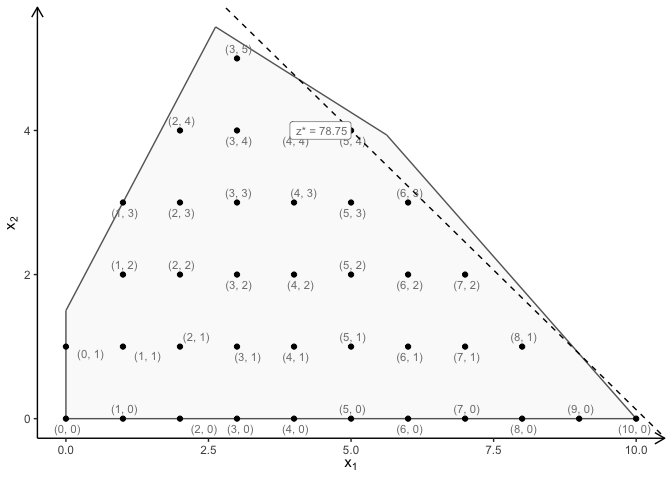
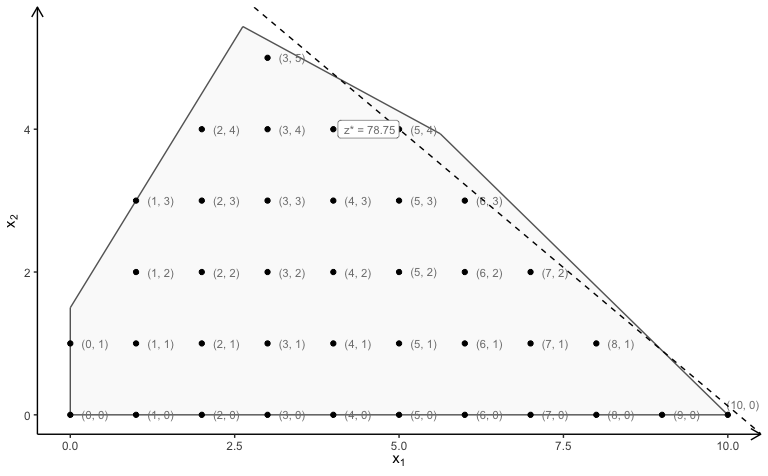
Updated Readme

diff --git a/README.md b/README.md
@@ -51,7 +51,7 @@ plotPolytope(
 )
 ```
 
-![](man/figures/README-lp-1.png)<!-- -->
+<img src="man/figures/README-lp-1.png" width="99%" style="display: block; margin: auto;" />
 
 The polytope of the ILP model with LP faces (\(x\in \mathbb{Z}_0\)):
 
@@ -70,7 +70,7 @@ plotPolytope(
 )
 ```
 
-![](man/figures/README-ilp-1.png)<!-- -->
+<img src="man/figures/README-ilp-1.png" width="99%" style="display: block; margin: auto;" />
 
 The polytope of the MILP model (first variable integer) with LP faces:
 
@@ -89,7 +89,7 @@ plotPolytope(
 )
 ```
 
-![](man/figures/README-milp-1.png)<!-- -->
+<img src="man/figures/README-milp-1.png" width="99%" style="display: block; margin: auto;" />
 
 You can do the same with three variables:
 
@@ -111,22 +111,18 @@ view <- matrix( c(-0.412063330411911, -0.228006735444069, 0.882166087627411, 0, 
                   0.231208890676498, 0, 0, 0, 0, 1), nc = 4)   
 loadView(v = view)  # set view angle
 plotPolytope(A, b, plotOptimum = TRUE, obj = coeff, labels = "n")
-rglwidget()
 ```
 
-<!--html_preserve-->
+<center>
 
-<div id="rgl12308" class="rglWebGL html-widget" style="width:672px;height:480px;">
+![](man/figures/README-3d.gif)
 
-</div>
+</center>
 
-<script type="application/json" data-for="rgl12308">{"x":{"material":{"color":"#000000","alpha":1,"lit":true,"ambient":"#000000","specular":"#FFFFFF","emission":"#000000","shininess":50,"smooth":true,"front":"filled","back":"filled","size":3,"lwd":1,"fog":true,"point_antialias":false,"line_antialias":false,"texture":null,"textype":"rgb","texmipmap":false,"texminfilter":"linear","texmagfilter":"linear","texenvmap":false,"depth_mask":true,"depth_test":"less","isTransparent":false,"polygon_offset":[0,0]},"rootSubscene":7,"objects":{"15":{"id":15,"type":"lines","material":{"lit":false},"vertices":[[1,1,1],[1,1,1],[3,3,3],[3,3,3]],"colors":[[0,0,0,1]],"centers":[[1,1,1],[3,3,3]],"ignoreExtent":false,"flags":32832},"16":{"id":16,"type":"text","material":{"lit":false},"vertices":[[2,0.66100001335144,0.66100001335144]],"colors":[[0,0,0,1]],"texts":[[""]],"cex":[[1]],"adj":[[0.5,0.5]],"centers":[[2,0.66100001335144,0.66100001335144]],"family":[["sans"]],"font":[[1]],"ignoreExtent":true,"flags":33808},"17":{"id":17,"type":"triangles","material":{"alpha":0.200000002980232,"isTransparent":true},"vertices":[[0,0,10],[11.3999996185303,0,0],[0,0,0],[5,0,8],[0,0,10],[11.3999996185303,0,0],[5,16,0],[11.3999996185303,0,0],[0,0,0],[5,16,0],[0,26,0],[0,0,0],[2.36847585645308e-15,25,1],[0,26,0],[0,0,0],[2.36847585645308e-15,25,1],[0,0,10],[0,0,0],[0,15,5],[2.36847585645308e-15,25,1],[0,0,10],[1.79999995231628,20.7999992370605,1.60000002384186],[5,0,8],[11.3999996185303,0,0],[1.79999995231628,20.7999992370605,1.60000002384186],[5,16,0],[11.3999996185303,0,0],[1.79999995231628,20.7999992370605,1.60000002384186],[0,15,5],[2.36847585645308e-15,25,1],[1.79999995231628,20.7999992370605,1.60000002384186],[5,16,0],[0,26,0],[1.79999995231628,20.7999992370605,1.60000002384186],[2.36847585645308e-15,25,1],[0,26,0],[3.75,0,8.75],[1.79999995231628,20.7999992370605,1.60000002384186],[5,0,8],[3.75,0,8.75],[1.79999995231628,20.7999992370605,1.60000002384186],[0,15,5],[3.75,0,8.75],[5,0,8],[0,0,10],[3.75,0,8.75],[0,15,5],[0,0,10]],"colors":[[1,1,1,0.200000002980232]],"centers":[[3.79999995231628,0,3.33333349227905],[5.46666669845581,0,6],[5.46666669845581,5.33333349227905,0],[1.66666674613953,14,0],[7.89491987444066e-16,17,0.333333343267441],[7.89491987444066e-16,8.33333396911621,3.66666674613953],[7.89491987444066e-16,13.3333339691162,5.33333349227905],[6.06666707992554,6.93333339691162,3.20000028610229],[6.06666707992554,12.2666664123535,0.533333361148834],[0.600000023841858,20.2666664123535,2.53333330154419],[2.26666688919067,20.9333343505859,0.533333361148834],[0.600000023841858,23.9333343505859,0.866666674613953],[3.51666688919067,6.93333339691162,6.11666679382324],[1.85000014305115,11.9333333969116,5.11666679382324],[2.91666674613953,0,8.91666698455811],[1.25,5,7.91666698455811]],"normals":[[0,1,0],[0,1,0],[0,1,0],[0,-0.999999940395355,0],[0,-0.999999940395355,0],[0,-0.999999940395355,0],[0,0,-1],[0,0,-1],[0,0,-1],[0,0,1],[0,0,1],[0,0,1],[-1,0,2.36847585645308e-15],[-1,0,2.36847585645308e-15],[-1,0,2.36847585645308e-15],[1,-9.47390403461725e-17,0],[1,-9.47390403461725e-17,0],[1,-9.47390403461725e-17,0],[-1,-1.18423792822654e-15,-3.55271410231697e-15],[-1,-1.18423792822654e-15,-3.55271410231697e-15],[-1,-1.18423792822654e-15,-3.55271410231697e-15],[0.745356023311615,0.298142403364182,0.596284747123718],[0.745356023311615,0.298142403364182,0.596284747123718],[0.745356023311615,0.298142403364182,0.596284747123718],[-0.745355904102325,-0.298142343759537,-0.596284925937653],[-0.745355904102325,-0.298142343759537,-0.596284925937653],[-0.745355904102325,-0.298142343759537,-0.596284925937653],[-0.486664354801178,-0.324442803859711,-0.811107039451599],[-0.486664354801178,-0.324442803859711,-0.811107039451599],[-0.486664354801178,-0.324442803859711,-0.811107039451599],[0.816496551036835,0.408248275518417,0.408248484134674],[0.816496551036835,0.408248275518417,0.408248484134674],[0.816496551036835,0.408248275518417,0.408248484134674],[-0.816496670246124,-0.408248245716095,-0.408248245716095],[-0.816496670246124,-0.408248245716095,-0.408248245716095],[-0.816496670246124,-0.408248245716095,-0.408248245716095],[-0.486664414405823,-0.324442833662033,-0.81110692024231],[-0.486664414405823,-0.324442833662033,-0.81110692024231],[-0.486664414405823,-0.324442833662033,-0.81110692024231],[0.4866643846035,0.324442833662033,0.811107039451599],[0.4866643846035,0.324442833662033,0.811107039451599],[0.4866643846035,0.324442833662033,0.811107039451599],[0,1,0],[0,1,0],[0,1,0],[0.301511347293854,0.301511347293854,0.904534041881561],[0.301511347293854,0.301511347293854,0.904534041881561],[0.301511347293854,0.301511347293854,0.904534041881561]],"ignoreExtent":false,"flags":32811},"18":{"id":18,"type":"lines","material":{"lit":false,"lwd":2},"vertices":[[1.79999995231628,20.7999992370605,1.60000002384186],[2.36847585645308e-15,25,1],[1.79999995231628,20.7999992370605,1.60000002384186],[5,0,8],[1.79999995231628,20.7999992370605,1.60000002384186],[5,16,0],[2.36847585645308e-15,25,1],[0,15,5],[2.36847585645308e-15,25,1],[0,26,0],[0,15,5],[3.75,0,8.75],[0,15,5],[0,0,10],[3.75,0,8.75],[5,0,8],[3.75,0,8.75],[0,0,10],[5,0,8],[11.3999996185303,0,0],[0,0,10],[0,0,0],[5,16,0],[0,26,0],[5,16,0],[11.3999996185303,0,0],[0,26,0],[0,0,0],[11.3999996185303,0,0],[0,0,0]],"colors":[[0.701960802078247,0.701960802078247,0.701960802078247,1]],"centers":[[0.899999976158142,22.8999996185303,1.29999995231628],[3.40000009536743,10.3999996185303,4.80000019073486],[3.40000009536743,18.3999996185303,0.800000011920929],[1.18423792822654e-15,20,3],[1.18423792822654e-15,25.5,0.5],[1.875,7.5,6.875],[0,7.5,7.5],[4.375,0,8.375],[1.875,0,9.375],[8.19999980926514,0,4],[0,0,5],[2.5,21,0],[8.19999980926514,8,0],[0,13,0],[5.69999980926514,0,0]],"ignoreExtent":false,"flags":41024},"19":{"id":19,"type":"points","material":{"lit":false,"size":14},"vertices":[[1.79999995231628,20.7999992370605,1.60000002384186]],"colors":[[1,0,0,1]],"centers":[[1.79999995231628,20.7999992370605,1.60000002384186]],"ignoreExtent":false,"flags":34816},"20":{"id":20,"type":"points","material":{"lit":false,"size":7},"vertices":[[1.79999995231628,20.7999992370605,1.60000002384186],[2.36847585645308e-15,25,1],[0,15,5],[3.75,0,8.75],[5,0,8],[0,0,10],[5,16,0],[0,26,0],[11.3999996185303,0,0],[0,0,0]],"colors":[[0.498039215803146,0.498039215803146,0.498039215803146,1]],"centers":[[1.79999995231628,20.7999992370605,1.60000002384186],[2.36847585645308e-15,25,1],[0,15,5],[3.75,0,8.75],[5,0,8],[0,0,10],[5,16,0],[0,26,0],[11.3999996185303,0,0],[0,0,0]],"ignoreExtent":false,"flags":34816},"21":{"id":21,"type":"text","material":{"lit":false},"vertices":[[1.79999995231628,20.7999992370605,1.60000002384186],[2.36847585645308e-15,25,1],[0,15,5],[3.75,0,8.75],[5,0,8],[0,0,10],[5,16,0],[0,26,0],[11.3999996185303,0,0],[0,0,0]],"colors":[[0,0,0,1]],"texts":[[""],[""],[""],[""],[""],[""],[""],[""],[""],[""]],"cex":[[1]],"adj":[[0.5,0.5]],"centers":[[1.79999995231628,20.7999992370605,1.60000002384186],[2.36847585645308e-15,25,1],[0,15,5],[3.75,0,8.75],[5,0,8],[0,0,10],[5,16,0],[0,26,0],[11.3999996185303,0,0],[0,0,0]],"family":[["sans"]],"font":[[1]],"ignoreExtent":false,"flags":33808},"22":{"id":22,"type":"lines","material":{"lit":false},"vertices":[[0,-0.389999985694885,-0.150000005960464],[10,-0.389999985694885,-0.150000005960464],[0,-0.389999985694885,-0.150000005960464],[0,-1.05949997901917,-0.407499998807907],[2,-0.389999985694885,-0.150000005960464],[2,-1.05949997901917,-0.407499998807907],[4,-0.389999985694885,-0.150000005960464],[4,-1.05949997901917,-0.407499998807907],[6,-0.389999985694885,-0.150000005960464],[6,-1.05949997901917,-0.407499998807907],[8,-0.389999985694885,-0.150000005960464],[8,-1.05949997901917,-0.407499998807907],[10,-0.389999985694885,-0.150000005960464],[10,-1.05949997901917,-0.407499998807907]],"colors":[[0,0,0,1]],"centers":[[5,-0.389999985694885,-0.150000005960464],[0,-0.724749982357025,-0.278750002384186],[2,-0.724749982357025,-0.278750002384186],[4,-0.724749982357025,-0.278750002384186],[6,-0.724749982357025,-0.278750002384186],[8,-0.724749982357025,-0.278750002384186],[10,-0.724749982357025,-0.278750002384186]],"ignoreExtent":true,"flags":32832},"23":{"id":23,"type":"text","material":{"lit":false},"vertices":[[0,-2.39849996566772,-0.922500014305115],[2,-2.39849996566772,-0.922500014305115],[4,-2.39849996566772,-0.922500014305115],[6,-2.39849996566772,-0.922500014305115],[8,-2.39849996566772,-0.922500014305115],[10,-2.39849996566772,-0.922500014305115]],"colors":[[0,0,0,1]],"texts":[[" 0"],[" 2"],[" 4"],[" 6"],[" 8"],["10"]],"cex":[[1]],"adj":[[0.5,0.5]],"centers":[[0,-2.39849996566772,-0.922500014305115],[2,-2.39849996566772,-0.922500014305115],[4,-2.39849996566772,-0.922500014305115],[6,-2.39849996566772,-0.922500014305115],[8,-2.39849996566772,-0.922500014305115],[10,-2.39849996566772,-0.922500014305115]],"family":[["sans"]],"font":[[1]],"ignoreExtent":true,"flags":33808},"24":{"id":24,"type":"lines","material":{"lit":false},"vertices":[[-0.170999988913536,0,-0.150000005960464],[-0.170999988913536,25,-0.150000005960464],[-0.170999988913536,0,-0.150000005960464],[-0.464549988508224,0,-0.407499998807907],[-0.170999988913536,5,-0.150000005960464],[-0.464549988508224,5,-0.407499998807907],[-0.170999988913536,10,-0.150000005960464],[-0.464549988508224,10,-0.407499998807907],[-0.170999988913536,15,-0.150000005960464],[-0.464549988508224,15,-0.407499998807907],[-0.170999988913536,20,-0.150000005960464],[-0.464549988508224,20,-0.407499998807907],[-0.170999988913536,25,-0.150000005960464],[-0.464549988508224,25,-0.407499998807907]],"colors":[[0,0,0,1]],"centers":[[-0.170999988913536,12.5,-0.150000005960464],[-0.3177749812603,0,-0.278750002384186],[-0.3177749812603,5,-0.278750002384186],[-0.3177749812603,10,-0.278750002384186],[-0.3177749812603,15,-0.278750002384186],[-0.3177749812603,20,-0.278750002384186],[-0.3177749812603,25,-0.278750002384186]],"ignoreExtent":true,"flags":32832},"25":{"id":25,"type":"text","material":{"lit":false},"vertices":[[-1.05164992809296,0,-0.922500014305115],[-1.05164992809296,5,-0.922500014305115],[-1.05164992809296,10,-0.922500014305115],[-1.05164992809296,15,-0.922500014305115],[-1.05164992809296,20,-0.922500014305115],[-1.05164992809296,25,-0.922500014305115]],"colors":[[0,0,0,1]],"texts":[[" 0"],[" 5"],["10"],["15"],["20"],["25"]],"cex":[[1]],"adj":[[0.5,0.5]],"centers":[[-1.05164992809296,0,-0.922500014305115],[-1.05164992809296,5,-0.922500014305115],[-1.05164992809296,10,-0.922500014305115],[-1.05164992809296,15,-0.922500014305115],[-1.05164992809296,20,-0.922500014305115],[-1.05164992809296,25,-0.922500014305115]],"family":[["sans"]],"font":[[1]],"ignoreExtent":true,"flags":33808},"26":{"id":26,"type":"lines","material":{"lit":false},"vertices":[[-0.170999988913536,-0.389999985694885,0],[-0.170999988913536,-0.389999985694885,10],[-0.170999988913536,-0.389999985694885,0],[-0.464549988508224,-1.05949997901917,0],[-0.170999988913536,-0.389999985694885,2],[-0.464549988508224,-1.05949997901917,2],[-0.170999988913536,-0.389999985694885,4],[-0.464549988508224,-1.05949997901917,4],[-0.170999988913536,-0.389999985694885,6],[-0.464549988508224,-1.05949997901917,6],[-0.170999988913536,-0.389999985694885,8],[-0.464549988508224,-1.05949997901917,8],[-0.170999988913536,-0.389999985694885,10],[-0.464549988508224,-1.05949997901917,10]],"colors":[[0,0,0,1]],"centers":[[-0.170999988913536,-0.389999985694885,5],[-0.3177749812603,-0.724749982357025,0],[-0.3177749812603,-0.724749982357025,2],[-0.3177749812603,-0.724749982357025,4],[-0.3177749812603,-0.724749982357025,6],[-0.3177749812603,-0.724749982357025,8],[-0.3177749812603,-0.724749982357025,10]],"ignoreExtent":true,"flags":32832},"27":{"id":27,"type":"text","material":{"lit":false},"vertices":[[-1.05164992809296,-2.39849996566772,0],[-1.05164992809296,-2.39849996566772,2],[-1.05164992809296,-2.39849996566772,4],[-1.05164992809296,-2.39849996566772,6],[-1.05164992809296,-2.39849996566772,8],[-1.05164992809296,-2.39849996566772,10]],"colors":[[0,0,0,1]],"texts":[[" 0"],[" 2"],[" 4"],[" 6"],[" 8"],["10"]],"cex":[[1]],"adj":[[0.5,0.5]],"centers":[[-1.05164992809296,-2.39849996566772,0],[-1.05164992809296,-2.39849996566772,2],[-1.05164992809296,-2.39849996566772,4],[-1.05164992809296,-2.39849996566772,6],[-1.05164992809296,-2.39849996566772,8],[-1.05164992809296,-2.39849996566772,10]],"family":[["sans"]],"font":[[1]],"ignoreExtent":true,"flags":33808},"28":{"id":28,"type":"text","material":{"lit":false},"vertices":[[5.69999980926514,-4.40700006484985,-1.69500005245209]],"colors":[[0,0,0,1]],"texts":[["x1"]],"cex":[[1]],"adj":[[0.5,0.5]],"centers":[[5.69999980926514,-4.40700006484985,-1.69500005245209]],"family":[["sans"]],"font":[[1]],"ignoreExtent":true,"flags":33808},"29":{"id":29,"type":"text","material":{"lit":false},"vertices":[[-1.93229997158051,13,-1.69500005245209]],"colors":[[0,0,0,1]],"texts":[["x2"]],"cex":[[1]],"adj":[[0.5,0.5]],"centers":[[-1.93229997158051,13,-1.69500005245209]],"family":[["sans"]],"font":[[1]],"ignoreExtent":true,"flags":33808},"30":{"id":30,"type":"text","material":{"lit":false},"vertices":[[-1.93229997158051,-4.40700006484985,5]],"colors":[[0,0,0,1]],"texts":[["x3"]],"cex":[[1]],"adj":[[0.5,0.5]],"centers":[[-1.93229997158051,-4.40700006484985,5]],"family":[["sans"]],"font":[[1]],"ignoreExtent":true,"flags":33808},"11":{"id":11,"type":"light","vertices":[[0,0,1]],"colors":[[1,1,1,1],[1,1,1,1],[1,1,1,1]],"viewpoint":true,"finite":false},"10":{"id":10,"type":"background","material":{},"colors":[[0.298039227724075,0.298039227724075,0.298039227724075,1]],"centers":[[0,0,0]],"sphere":false,"fogtype":"none","fogscale":[[1]],"flags":32768},"12":{"id":12,"type":"background","material":{"lit":false,"back":"lines"},"colors":[[1,1,1,1]],"centers":[[0,0,0]],"sphere":false,"fogtype":"none","fogscale":[[1]],"flags":32768},"7":{"id":7,"type":"subscene","par3d":{"antialias":8,"FOV":60,"ignoreExtent":false,"listeners":7,"mouseMode":{"left":"trackball","right":"zoom","middle":"fov","wheel":"pull"},"observer":[0,0,30.0991687774658],"modelMatrix":[[-0.412063330411911,0.910147845745087,-0.042830865830183,-9.26900672912598],[-0.228006735444069,-0.0574885793030262,0.97196090221405,-2.81281471252441],[0.882166087627411,0.410274744033813,0.231208890676498,-41.617130279541],[0,0,0,1]],"projMatrix":[[1.73205077648163,0,0,0],[0,1.73205077648163,0,0],[0,0,-1.99999988079071,-45.1487503051758],[0,0,-1,0]],"skipRedraw":false,"userMatrix":[[-0.412063330411911,0.910147845745087,-0.042830865830183,0],[-0.228006735444069,-0.0574885793030262,0.97196090221405,0],[0.882166087627411,0.410274744033813,0.231208890676498,0],[0,0,0,1]],"userProjection":[[1,0,0,0],[0,1,0,0],[0,0,1,0],[0,0,0,1]],"scale":[1,1,1],"viewport":{"x":0,"y":0,"width":1,"height":1},"zoom":1,"bbox":[0,11.3999996185303,0,26,0,10],"windowRect":[0,0,256,256],"family":"sans","font":1,"cex":1,"useFreeType":false,"fontname":"NULL","maxClipPlanes":2147483647,"glVersion":2.1,"activeSubscene":0},"embeddings":{"viewport":"replace","projection":"replace","model":"replace","mouse":"replace"},"objects":[12,15,16,17,18,19,20,21,22,23,24,25,26,27,28,29,30,11],"subscenes":[],"flags":44411},"37":{"id":37,"type":"linestrip","material":{"alpha":0.498039215803146,"lit":false,"depth_test":"always","isTransparent":true},"vertices":[[0,0,-0.999000012874603],[1,0,-0.999000012874603],[1,1,-0.999000012874603],[0,1,-0.999000012874603],[0,0,-0.999000012874603]],"colors":[[0,0,0,0.498039215803146]],"centers":[[0,0,-0.999000012874603],[1,0,-0.999000012874603],[1,1,-0.999000012874603],[0,1,-0.999000012874603],[0,0,-0.999000012874603]],"ignoreExtent":false,"flags":49248}},"crosstalk":{"key":[null],"group":"","id":0,"options":[null]},"width":672,"height":480,"brushId":37,"sphereVerts":{"vb":[[0,0,0,0,0,0,0,0,0,0,0,0,0,0,0,0.0746578340503426,0.146446609406726,0.212607523691814,0.270598050073098,0.318189645143208,0.353553390593274,0.375330277517865,0.38268343236509,0.375330277517865,0.353553390593274,0.318189645143208,0.270598050073098,0.212607523691814,0.146446609406726,0.0746578340503426,0.137949689641471,0.270598050073098,0.392847479193551,0.5,0.587937801209679,0.653281482438188,0.693519922661074,0.707106781186547,0.693519922661074,0.653281482438188,0.587937801209679,0.5,0.392847479193551,0.270598050073098,0.137949689641471,0.180239955501737,0.353553390593274,0.513279967159337,0.653281482438188,0.768177756711416,0.853553390593274,0.906127446352888,0.923879532511287,0.906127446352888,0.853553390593274,0.768177756711416,0.653281482438188,0.513279967159337,0.353553390593274,0.180239955501737,0.195090322016128,0.38268343236509,0.555570233019602,0.707106781186547,0.831469612302545,0.923879532511287,0.98078528040323,1,0.98078528040323,0.923879532511287,0.831469612302545,0.707106781186547,0.555570233019602,0.38268343236509,0.195090322016128,0.180239955501737,0.353553390593274,0.513279967159337,0.653281482438188,0.768177756711416,0.853553390593274,0.906127446352888,0.923879532511287,0.906127446352888,0.853553390593274,0.768177756711416,0.653281482438188,0.513279967159337,0.353553390593274,0.180239955501737,0.137949689641471,0.270598050073098,0.392847479193551,0.5,0.587937801209679,0.653281482438188,0.693519922661074,0.707106781186547,0.693519922661074,0.653281482438188,0.587937801209679,0.5,0.392847479193551,0.270598050073098,0.137949689641471,0.0746578340503426,0.146446609406726,0.212607523691814,0.270598050073098,0.318189645143208,0.353553390593274,0.375330277517865,0.38268343236509,0.375330277517865,0.353553390593274,0.318189645143208,0.270598050073098,0.212607523691814,0.146446609406726,0.0746578340503426,0,0,0,0,0,0,0,0,0,0,0,0,0,0,0,-0.0746578340503426,-0.146446609406726,-0.212607523691814,-0.270598050073098,-0.318189645143208,-0.353553390593274,-0.375330277517865,-0.38268343236509,-0.375330277517865,-0.353553390593274,-0.318189645143208,-0.270598050073098,-0.212607523691814,-0.146446609406726,-0.0746578340503426,-0.137949689641471,-0.270598050073098,-0.392847479193551,-0.5,-0.587937801209679,-0.653281482438188,-0.693519922661074,-0.707106781186547,-0.693519922661074,-0.653281482438188,-0.587937801209679,-0.5,-0.392847479193551,-0.270598050073098,-0.137949689641471,-0.180239955501737,-0.353553390593274,-0.513279967159337,-0.653281482438188,-0.768177756711416,-0.853553390593274,-0.906127446352888,-0.923879532511287,-0.906127446352888,-0.853553390593274,-0.768177756711416,-0.653281482438188,-0.513279967159337,-0.353553390593274,-0.180239955501737,-0.195090322016128,-0.38268343236509,-0.555570233019602,-0.707106781186547,-0.831469612302545,-0.923879532511287,-0.98078528040323,-1,-0.98078528040323,-0.923879532511287,-0.831469612302545,-0.707106781186547,-0.555570233019602,-0.38268343236509,-0.195090322016128,-0.180239955501737,-0.353553390593274,-0.513279967159337,-0.653281482438188,-0.768177756711416,-0.853553390593274,-0.906127446352888,-0.923879532511287,-0.906127446352888,-0.853553390593274,-0.768177756711416,-0.653281482438188,-0.513279967159337,-0.353553390593274,-0.180239955501737,-0.137949689641471,-0.270598050073098,-0.392847479193551,-0.5,-0.587937801209679,-0.653281482438188,-0.693519922661074,-0.707106781186547,-0.693519922661074,-0.653281482438188,-0.587937801209679,-0.5,-0.392847479193551,-0.270598050073098,-0.137949689641471,-0.0746578340503426,-0.146446609406726,-0.212607523691814,-0.270598050073098,-0.318189645143208,-0.353553390593274,-0.375330277517865,-0.38268343236509,-0.375330277517865,-0.353553390593274,-0.318189645143208,-0.270598050073098,-0.212607523691814,-0.146446609406726,-0.0746578340503426,0,0],[-0.98078528040323,-0.923879532511287,-0.831469612302545,-0.707106781186547,-0.555570233019602,-0.38268343236509,-0.195090322016128,0,0.195090322016128,0.38268343236509,0.555570233019602,0.707106781186547,0.831469612302545,0.923879532511287,0.98078528040323,-0.98078528040323,-0.923879532511287,-0.831469612302545,-0.707106781186547,-0.555570233019602,-0.38268343236509,-0.195090322016128,0,0.195090322016128,0.38268343236509,0.555570233019602,0.707106781186547,0.831469612302545,0.923879532511287,0.98078528040323,-0.98078528040323,-0.923879532511287,-0.831469612302545,-0.707106781186547,-0.555570233019602,-0.38268343236509,-0.195090322016128,0,0.195090322016128,0.38268343236509,0.555570233019602,0.707106781186547,0.831469612302545,0.923879532511287,0.98078528040323,-0.98078528040323,-0.923879532511287,-0.831469612302545,-0.707106781186547,-0.555570233019602,-0.38268343236509,-0.195090322016128,0,0.195090322016128,0.38268343236509,0.555570233019602,0.707106781186547,0.831469612302545,0.923879532511287,0.98078528040323,-0.98078528040323,-0.923879532511287,-0.831469612302545,-0.707106781186547,-0.555570233019602,-0.38268343236509,-0.195090322016128,0,0.195090322016128,0.38268343236509,0.555570233019602,0.707106781186547,0.831469612302545,0.923879532511287,0.98078528040323,-0.98078528040323,-0.923879532511287,-0.831469612302545,-0.707106781186547,-0.555570233019602,-0.38268343236509,-0.195090322016128,0,0.195090322016128,0.38268343236509,0.555570233019602,0.707106781186547,0.831469612302545,0.923879532511287,0.98078528040323,-0.98078528040323,-0.923879532511287,-0.831469612302545,-0.707106781186547,-0.555570233019602,-0.38268343236509,-0.195090322016128,0,0.195090322016128,0.38268343236509,0.555570233019602,0.707106781186547,0.831469612302545,0.923879532511287,0.98078528040323,-0.98078528040323,-0.923879532511287,-0.831469612302545,-0.707106781186547,-0.555570233019602,-0.38268343236509,-0.195090322016128,0,0.195090322016128,0.38268343236509,0.555570233019602,0.707106781186547,0.831469612302545,0.923879532511287,0.98078528040323,-0.98078528040323,-0.923879532511287,-0.831469612302545,-0.707106781186547,-0.555570233019602,-0.38268343236509,-0.195090322016128,0,0.195090322016128,0.38268343236509,0.555570233019602,0.707106781186547,0.831469612302545,0.923879532511287,0.98078528040323,-0.98078528040323,-0.923879532511287,-0.831469612302545,-0.707106781186547,-0.555570233019602,-0.38268343236509,-0.195090322016128,0,0.195090322016128,0.38268343236509,0.555570233019602,0.707106781186547,0.831469612302545,0.923879532511287,0.98078528040323,-0.98078528040323,-0.923879532511287,-0.831469612302545,-0.707106781186547,-0.555570233019602,-0.38268343236509,-0.195090322016128,0,0.195090322016128,0.38268343236509,0.555570233019602,0.707106781186547,0.831469612302545,0.923879532511287,0.98078528040323,-0.98078528040323,-0.923879532511287,-0.831469612302545,-0.707106781186547,-0.555570233019602,-0.38268343236509,-0.195090322016128,0,0.195090322016128,0.38268343236509,0.555570233019602,0.707106781186547,0.831469612302545,0.923879532511287,0.98078528040323,-0.98078528040323,-0.923879532511287,-0.831469612302545,-0.707106781186547,-0.555570233019602,-0.38268343236509,-0.195090322016128,0,0.195090322016128,0.38268343236509,0.555570233019602,0.707106781186547,0.831469612302545,0.923879532511287,0.98078528040323,-0.98078528040323,-0.923879532511287,-0.831469612302545,-0.707106781186547,-0.555570233019602,-0.38268343236509,-0.195090322016128,0,0.195090322016128,0.38268343236509,0.555570233019602,0.707106781186547,0.831469612302545,0.923879532511287,0.98078528040323,-0.98078528040323,-0.923879532511287,-0.831469612302545,-0.707106781186547,-0.555570233019602,-0.38268343236509,-0.195090322016128,0,0.195090322016128,0.38268343236509,0.555570233019602,0.707106781186547,0.831469612302545,0.923879532511287,0.98078528040323,-0.98078528040323,-0.923879532511287,-0.831469612302545,-0.707106781186547,-0.555570233019602,-0.38268343236509,-0.195090322016128,0,0.195090322016128,0.38268343236509,0.555570233019602,0.707106781186547,0.831469612302545,0.923879532511287,0.98078528040323,-1,1],[0.195090322016128,0.38268343236509,0.555570233019602,0.707106781186547,0.831469612302545,0.923879532511287,0.98078528040323,1,0.98078528040323,0.923879532511287,0.831469612302545,0.707106781186547,0.555570233019602,0.38268343236509,0.195090322016128,0.180239955501737,0.353553390593274,0.513279967159337,0.653281482438188,0.768177756711416,0.853553390593274,0.906127446352888,0.923879532511287,0.906127446352888,0.853553390593274,0.768177756711416,0.653281482438188,0.513279967159337,0.353553390593274,0.180239955501737,0.137949689641471,0.270598050073098,0.392847479193551,0.5,0.587937801209679,0.653281482438188,0.693519922661074,0.707106781186547,0.693519922661074,0.653281482438188,0.587937801209679,0.5,0.392847479193551,0.270598050073098,0.137949689641471,0.0746578340503426,0.146446609406726,0.212607523691814,0.270598050073098,0.318189645143208,0.353553390593274,0.375330277517865,0.38268343236509,0.375330277517865,0.353553390593274,0.318189645143208,0.270598050073098,0.212607523691814,0.146446609406726,0.0746578340503426,0,0,0,0,0,0,0,0,0,0,0,0,0,0,0,-0.0746578340503426,-0.146446609406726,-0.212607523691814,-0.270598050073098,-0.318189645143208,-0.353553390593274,-0.375330277517865,-0.38268343236509,-0.375330277517865,-0.353553390593274,-0.318189645143208,-0.270598050073098,-0.212607523691814,-0.146446609406726,-0.0746578340503426,-0.137949689641471,-0.270598050073098,-0.392847479193551,-0.5,-0.587937801209679,-0.653281482438188,-0.693519922661074,-0.707106781186547,-0.693519922661074,-0.653281482438188,-0.587937801209679,-0.5,-0.392847479193551,-0.270598050073098,-0.137949689641471,-0.180239955501737,-0.353553390593274,-0.513279967159337,-0.653281482438188,-0.768177756711416,-0.853553390593274,-0.906127446352888,-0.923879532511287,-0.906127446352888,-0.853553390593274,-0.768177756711416,-0.653281482438188,-0.513279967159337,-0.353553390593274,-0.180239955501737,-0.195090322016128,-0.38268343236509,-0.555570233019602,-0.707106781186547,-0.831469612302545,-0.923879532511287,-0.98078528040323,-1,-0.98078528040323,-0.923879532511287,-0.831469612302545,-0.707106781186547,-0.555570233019602,-0.38268343236509,-0.195090322016128,-0.180239955501737,-0.353553390593274,-0.513279967159337,-0.653281482438188,-0.768177756711416,-0.853553390593274,-0.906127446352888,-0.923879532511287,-0.906127446352888,-0.853553390593274,-0.768177756711416,-0.653281482438188,-0.513279967159337,-0.353553390593274,-0.180239955501737,-0.137949689641471,-0.270598050073098,-0.392847479193551,-0.5,-0.587937801209679,-0.653281482438188,-0.693519922661074,-0.707106781186547,-0.693519922661074,-0.653281482438188,-0.587937801209679,-0.5,-0.392847479193551,-0.270598050073098,-0.137949689641471,-0.0746578340503426,-0.146446609406726,-0.212607523691814,-0.270598050073098,-0.318189645143208,-0.353553390593274,-0.375330277517865,-0.38268343236509,-0.375330277517865,-0.353553390593274,-0.318189645143208,-0.270598050073098,-0.212607523691814,-0.146446609406726,-0.0746578340503426,0,0,0,0,0,0,0,0,0,0,0,0,0,0,0,0.0746578340503426,0.146446609406726,0.212607523691814,0.270598050073098,0.318189645143208,0.353553390593274,0.375330277517865,0.38268343236509,0.375330277517865,0.353553390593274,0.318189645143208,0.270598050073098,0.212607523691814,0.146446609406726,0.0746578340503426,0.137949689641471,0.270598050073098,0.392847479193551,0.5,0.587937801209679,0.653281482438188,0.693519922661074,0.707106781186547,0.693519922661074,0.653281482438188,0.587937801209679,0.5,0.392847479193551,0.270598050073098,0.137949689641471,0.180239955501737,0.353553390593274,0.513279967159337,0.653281482438188,0.768177756711416,0.853553390593274,0.906127446352888,0.923879532511287,0.906127446352888,0.853553390593274,0.768177756711416,0.653281482438188,0.513279967159337,0.353553390593274,0.180239955501737,0,0]],"it":[[0,1,2,3,4,5,6,7,8,9,10,11,12,13,15,16,17,18,19,20,21,22,23,24,25,26,27,28,30,31,32,33,34,35,36,37,38,39,40,41,42,43,45,46,47,48,49,50,51,52,53,54,55,56,57,58,60,61,62,63,64,65,66,67,68,69,70,71,72,73,75,76,77,78,79,80,81,82,83,84,85,86,87,88,90,91,92,93,94,95,96,97,98,99,100,101,102,103,105,106,107,108,109,110,111,112,113,114,115,116,117,118,120,121,122,123,124,125,126,127,128,129,130,131,132,133,135,136,137,138,139,140,141,142,143,144,145,146,147,148,150,151,152,153,154,155,156,157,158,159,160,161,162,163,165,166,167,168,169,170,171,172,173,174,175,176,177,178,180,181,182,183,184,185,186,187,188,189,190,191,192,193,195,196,197,198,199,200,201,202,203,204,205,206,207,208,210,211,212,213,214,215,216,217,218,219,220,221,222,223,225,226,227,228,229,230,231,232,233,234,235,236,237,238,0,1,2,3,4,5,6,7,8,9,10,11,12,13,15,16,17,18,19,20,21,22,23,24,25,26,27,28,30,31,32,33,34,35,36,37,38,39,40,41,42,43,45,46,47,48,49,50,51,52,53,54,55,56,57,58,60,61,62,63,64,65,66,67,68,69,70,71,72,73,75,76,77,78,79,80,81,82,83,84,85,86,87,88,90,91,92,93,94,95,96,97,98,99,100,101,102,103,105,106,107,108,109,110,111,112,113,114,115,116,117,118,120,121,122,123,124,125,126,127,128,129,130,131,132,133,135,136,137,138,139,140,141,142,143,144,145,146,147,148,150,151,152,153,154,155,156,157,158,159,160,161,162,163,165,166,167,168,169,170,171,172,173,174,175,176,177,178,180,181,182,183,184,185,186,187,188,189,190,191,192,193,195,196,197,198,199,200,201,202,203,204,205,206,207,208,210,211,212,213,214,215,216,217,218,219,220,221,222,223,225,226,227,228,229,230,231,232,233,234,235,236,237,238,240,240,240,240,240,240,240,240,240,240,240,240,240,240,240,240,241,241,241,241,241,241,241,241,241,241,241,241,241,241,241,241],[15,16,17,18,19,20,21,22,23,24,25,26,27,28,30,31,32,33,34,35,36,37,38,39,40,41,42,43,45,46,47,48,49,50,51,52,53,54,55,56,57,58,60,61,62,63,64,65,66,67,68,69,70,71,72,73,75,76,77,78,79,80,81,82,83,84,85,86,87,88,90,91,92,93,94,95,96,97,98,99,100,101,102,103,105,106,107,108,109,110,111,112,113,114,115,116,117,118,120,121,122,123,124,125,126,127,128,129,130,131,132,133,135,136,137,138,139,140,141,142,143,144,145,146,147,148,150,151,152,153,154,155,156,157,158,159,160,161,162,163,165,166,167,168,169,170,171,172,173,174,175,176,177,178,180,181,182,183,184,185,186,187,188,189,190,191,192,193,195,196,197,198,199,200,201,202,203,204,205,206,207,208,210,211,212,213,214,215,216,217,218,219,220,221,222,223,225,226,227,228,229,230,231,232,233,234,235,236,237,238,0,1,2,3,4,5,6,7,8,9,10,11,12,13,16,17,18,19,20,21,22,23,24,25,26,27,28,29,31,32,33,34,35,36,37,38,39,40,41,42,43,44,46,47,48,49,50,51,52,53,54,55,56,57,58,59,61,62,63,64,65,66,67,68,69,70,71,72,73,74,76,77,78,79,80,81,82,83,84,85,86,87,88,89,91,92,93,94,95,96,97,98,99,100,101,102,103,104,106,107,108,109,110,111,112,113,114,115,116,117,118,119,121,122,123,124,125,126,127,128,129,130,131,132,133,134,136,137,138,139,140,141,142,143,144,145,146,147,148,149,151,152,153,154,155,156,157,158,159,160,161,162,163,164,166,167,168,169,170,171,172,173,174,175,176,177,178,179,181,182,183,184,185,186,187,188,189,190,191,192,193,194,196,197,198,199,200,201,202,203,204,205,206,207,208,209,211,212,213,214,215,216,217,218,219,220,221,222,223,224,226,227,228,229,230,231,232,233,234,235,236,237,238,239,1,2,3,4,5,6,7,8,9,10,11,12,13,14,15,30,45,60,75,90,105,120,135,150,165,180,195,210,225,0,14,29,44,59,74,89,104,119,134,149,164,179,194,209,224,239],[16,17,18,19,20,21,22,23,24,25,26,27,28,29,31,32,33,34,35,36,37,38,39,40,41,42,43,44,46,47,48,49,50,51,52,53,54,55,56,57,58,59,61,62,63,64,65,66,67,68,69,70,71,72,73,74,76,77,78,79,80,81,82,83,84,85,86,87,88,89,91,92,93,94,95,96,97,98,99,100,101,102,103,104,106,107,108,109,110,111,112,113,114,115,116,117,118,119,121,122,123,124,125,126,127,128,129,130,131,132,133,134,136,137,138,139,140,141,142,143,144,145,146,147,148,149,151,152,153,154,155,156,157,158,159,160,161,162,163,164,166,167,168,169,170,171,172,173,174,175,176,177,178,179,181,182,183,184,185,186,187,188,189,190,191,192,193,194,196,197,198,199,200,201,202,203,204,205,206,207,208,209,211,212,213,214,215,216,217,218,219,220,221,222,223,224,226,227,228,229,230,231,232,233,234,235,236,237,238,239,1,2,3,4,5,6,7,8,9,10,11,12,13,14,1,2,3,4,5,6,7,8,9,10,11,12,13,14,16,17,18,19,20,21,22,23,24,25,26,27,28,29,31,32,33,34,35,36,37,38,39,40,41,42,43,44,46,47,48,49,50,51,52,53,54,55,56,57,58,59,61,62,63,64,65,66,67,68,69,70,71,72,73,74,76,77,78,79,80,81,82,83,84,85,86,87,88,89,91,92,93,94,95,96,97,98,99,100,101,102,103,104,106,107,108,109,110,111,112,113,114,115,116,117,118,119,121,122,123,124,125,126,127,128,129,130,131,132,133,134,136,137,138,139,140,141,142,143,144,145,146,147,148,149,151,152,153,154,155,156,157,158,159,160,161,162,163,164,166,167,168,169,170,171,172,173,174,175,176,177,178,179,181,182,183,184,185,186,187,188,189,190,191,192,193,194,196,197,198,199,200,201,202,203,204,205,206,207,208,209,211,212,213,214,215,216,217,218,219,220,221,222,223,224,226,227,228,229,230,231,232,233,234,235,236,237,238,239,0,15,30,45,60,75,90,105,120,135,150,165,180,195,210,225,29,44,59,74,89,104,119,134,149,164,179,194,209,224,239,14]],"material":[],"normals":null,"texcoords":[[0,0,0,0,0,0,0,0,0,0,0,0,0,0,0,0.0625,0.0625,0.0625,0.0625,0.0625,0.0625,0.0625,0.0625,0.0625,0.0625,0.0625,0.0625,0.0625,0.0625,0.0625,0.125,0.125,0.125,0.125,0.125,0.125,0.125,0.125,0.125,0.125,0.125,0.125,0.125,0.125,0.125,0.1875,0.1875,0.1875,0.1875,0.1875,0.1875,0.1875,0.1875,0.1875,0.1875,0.1875,0.1875,0.1875,0.1875,0.1875,0.25,0.25,0.25,0.25,0.25,0.25,0.25,0.25,0.25,0.25,0.25,0.25,0.25,0.25,0.25,0.3125,0.3125,0.3125,0.3125,0.3125,0.3125,0.3125,0.3125,0.3125,0.3125,0.3125,0.3125,0.3125,0.3125,0.3125,0.375,0.375,0.375,0.375,0.375,0.375,0.375,0.375,0.375,0.375,0.375,0.375,0.375,0.375,0.375,0.4375,0.4375,0.4375,0.4375,0.4375,0.4375,0.4375,0.4375,0.4375,0.4375,0.4375,0.4375,0.4375,0.4375,0.4375,0.5,0.5,0.5,0.5,0.5,0.5,0.5,0.5,0.5,0.5,0.5,0.5,0.5,0.5,0.5,0.5625,0.5625,0.5625,0.5625,0.5625,0.5625,0.5625,0.5625,0.5625,0.5625,0.5625,0.5625,0.5625,0.5625,0.5625,0.625,0.625,0.625,0.625,0.625,0.625,0.625,0.625,0.625,0.625,0.625,0.625,0.625,0.625,0.625,0.6875,0.6875,0.6875,0.6875,0.6875,0.6875,0.6875,0.6875,0.6875,0.6875,0.6875,0.6875,0.6875,0.6875,0.6875,0.75,0.75,0.75,0.75,0.75,0.75,0.75,0.75,0.75,0.75,0.75,0.75,0.75,0.75,0.75,0.8125,0.8125,0.8125,0.8125,0.8125,0.8125,0.8125,0.8125,0.8125,0.8125,0.8125,0.8125,0.8125,0.8125,0.8125,0.875,0.875,0.875,0.875,0.875,0.875,0.875,0.875,0.875,0.875,0.875,0.875,0.875,0.875,0.875,0.9375,0.9375,0.9375,0.9375,0.9375,0.9375,0.9375,0.9375,0.9375,0.9375,0.9375,0.9375,0.9375,0.9375,0.9375,0,0],[0.0625,0.125,0.1875,0.25,0.3125,0.375,0.4375,0.5,0.5625,0.625,0.6875,0.75,0.8125,0.875,0.9375,0.0625,0.125,0.1875,0.25,0.3125,0.375,0.4375,0.5,0.5625,0.625,0.6875,0.75,0.8125,0.875,0.9375,0.0625,0.125,0.1875,0.25,0.3125,0.375,0.4375,0.5,0.5625,0.625,0.6875,0.75,0.8125,0.875,0.9375,0.0625,0.125,0.1875,0.25,0.3125,0.375,0.4375,0.5,0.5625,0.625,0.6875,0.75,0.8125,0.875,0.9375,0.0625,0.125,0.1875,0.25,0.3125,0.375,0.4375,0.5,0.5625,0.625,0.6875,0.75,0.8125,0.875,0.9375,0.0625,0.125,0.1875,0.25,0.3125,0.375,0.4375,0.5,0.5625,0.625,0.6875,0.75,0.8125,0.875,0.9375,0.0625,0.125,0.1875,0.25,0.3125,0.375,0.4375,0.5,0.5625,0.625,0.6875,0.75,0.8125,0.875,0.9375,0.0625,0.125,0.1875,0.25,0.3125,0.375,0.4375,0.5,0.5625,0.625,0.6875,0.75,0.8125,0.875,0.9375,0.0625,0.125,0.1875,0.25,0.3125,0.375,0.4375,0.5,0.5625,0.625,0.6875,0.75,0.8125,0.875,0.9375,0.0625,0.125,0.1875,0.25,0.3125,0.375,0.4375,0.5,0.5625,0.625,0.6875,0.75,0.8125,0.875,0.9375,0.0625,0.125,0.1875,0.25,0.3125,0.375,0.4375,0.5,0.5625,0.625,0.6875,0.75,0.8125,0.875,0.9375,0.0625,0.125,0.1875,0.25,0.3125,0.375,0.4375,0.5,0.5625,0.625,0.6875,0.75,0.8125,0.875,0.9375,0.0625,0.125,0.1875,0.25,0.3125,0.375,0.4375,0.5,0.5625,0.625,0.6875,0.75,0.8125,0.875,0.9375,0.0625,0.125,0.1875,0.25,0.3125,0.375,0.4375,0.5,0.5625,0.625,0.6875,0.75,0.8125,0.875,0.9375,0.0625,0.125,0.1875,0.25,0.3125,0.375,0.4375,0.5,0.5625,0.625,0.6875,0.75,0.8125,0.875,0.9375,0.0625,0.125,0.1875,0.25,0.3125,0.375,0.4375,0.5,0.5625,0.625,0.6875,0.75,0.8125,0.875,0.9375,0,1]],"meshColor":"vertices"},"context":{"shiny":false,"rmarkdown":"github_document"},"players":[],"webGLoptions":{"preserveDrawingBuffer":true}},"evals":[],"jsHooks":[]}</script>
-
-<!--/html_preserve-->
-
-The 3D plot is here a static image (so it can be seen in markdown).
-However, it may be an interactive plot as seen in [this
-example](http://htmlpreview.github.io/?https://github.com/relund/gMOIP/blob/master/inst/examples/3d_interactive.html).
+Note: interactive 3d plots cannot be displayed in a github README file,
+and static images or animated gifs are used here instead. Visit the
+[pkgdown online documentation](https://relund.github.io/gMOIP/) to view
+plots which can be manipulated in the browser.
 
 For more examples see `example("gMOIP-package")` or
 `browseVignettes('gMOIP')`.
